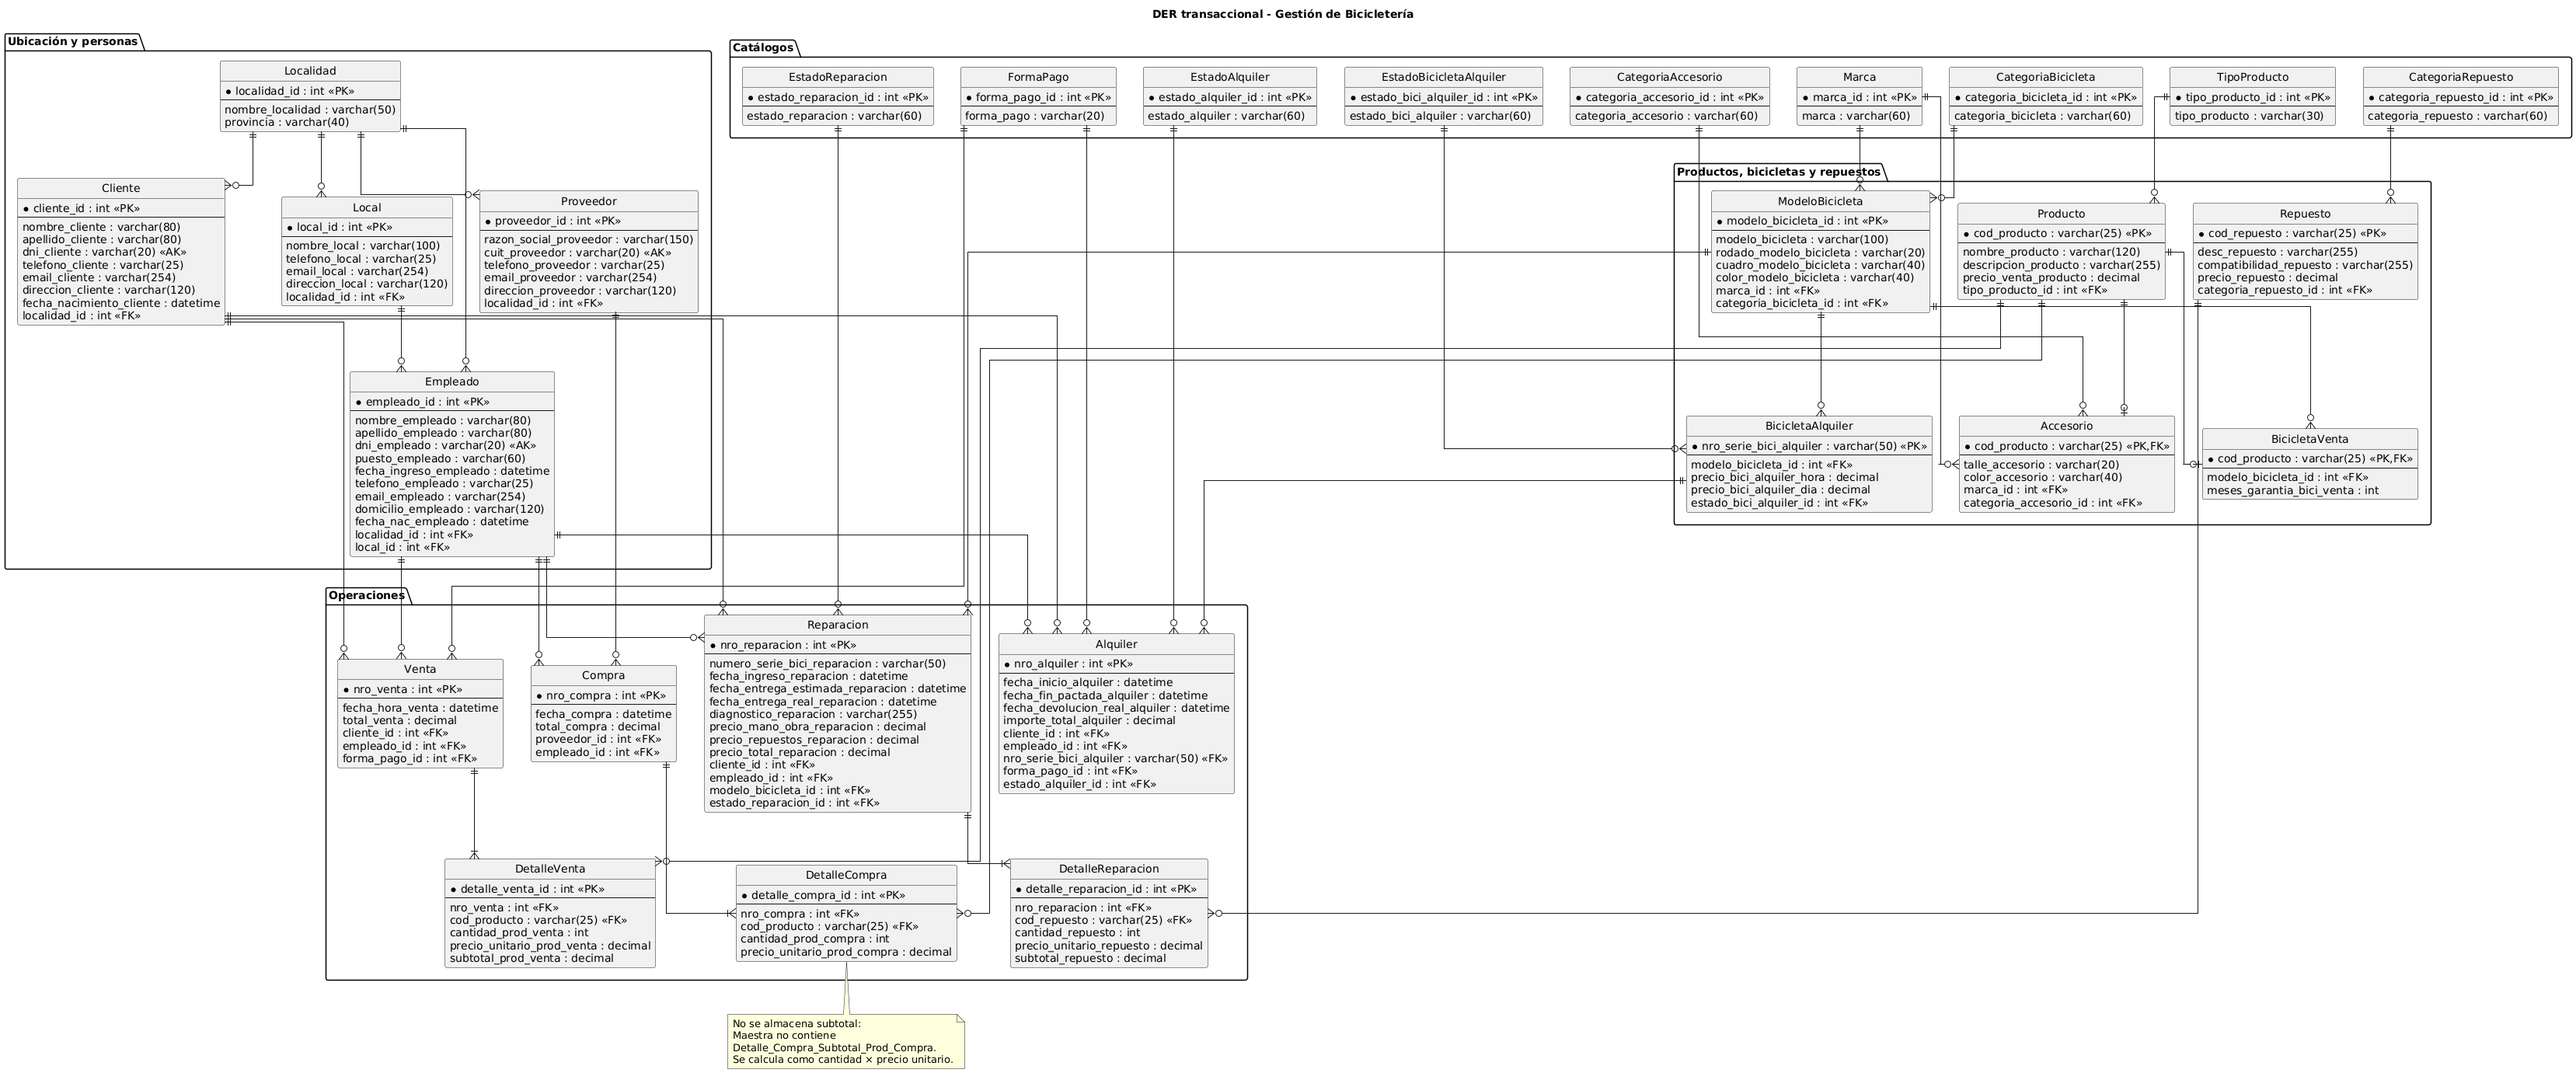
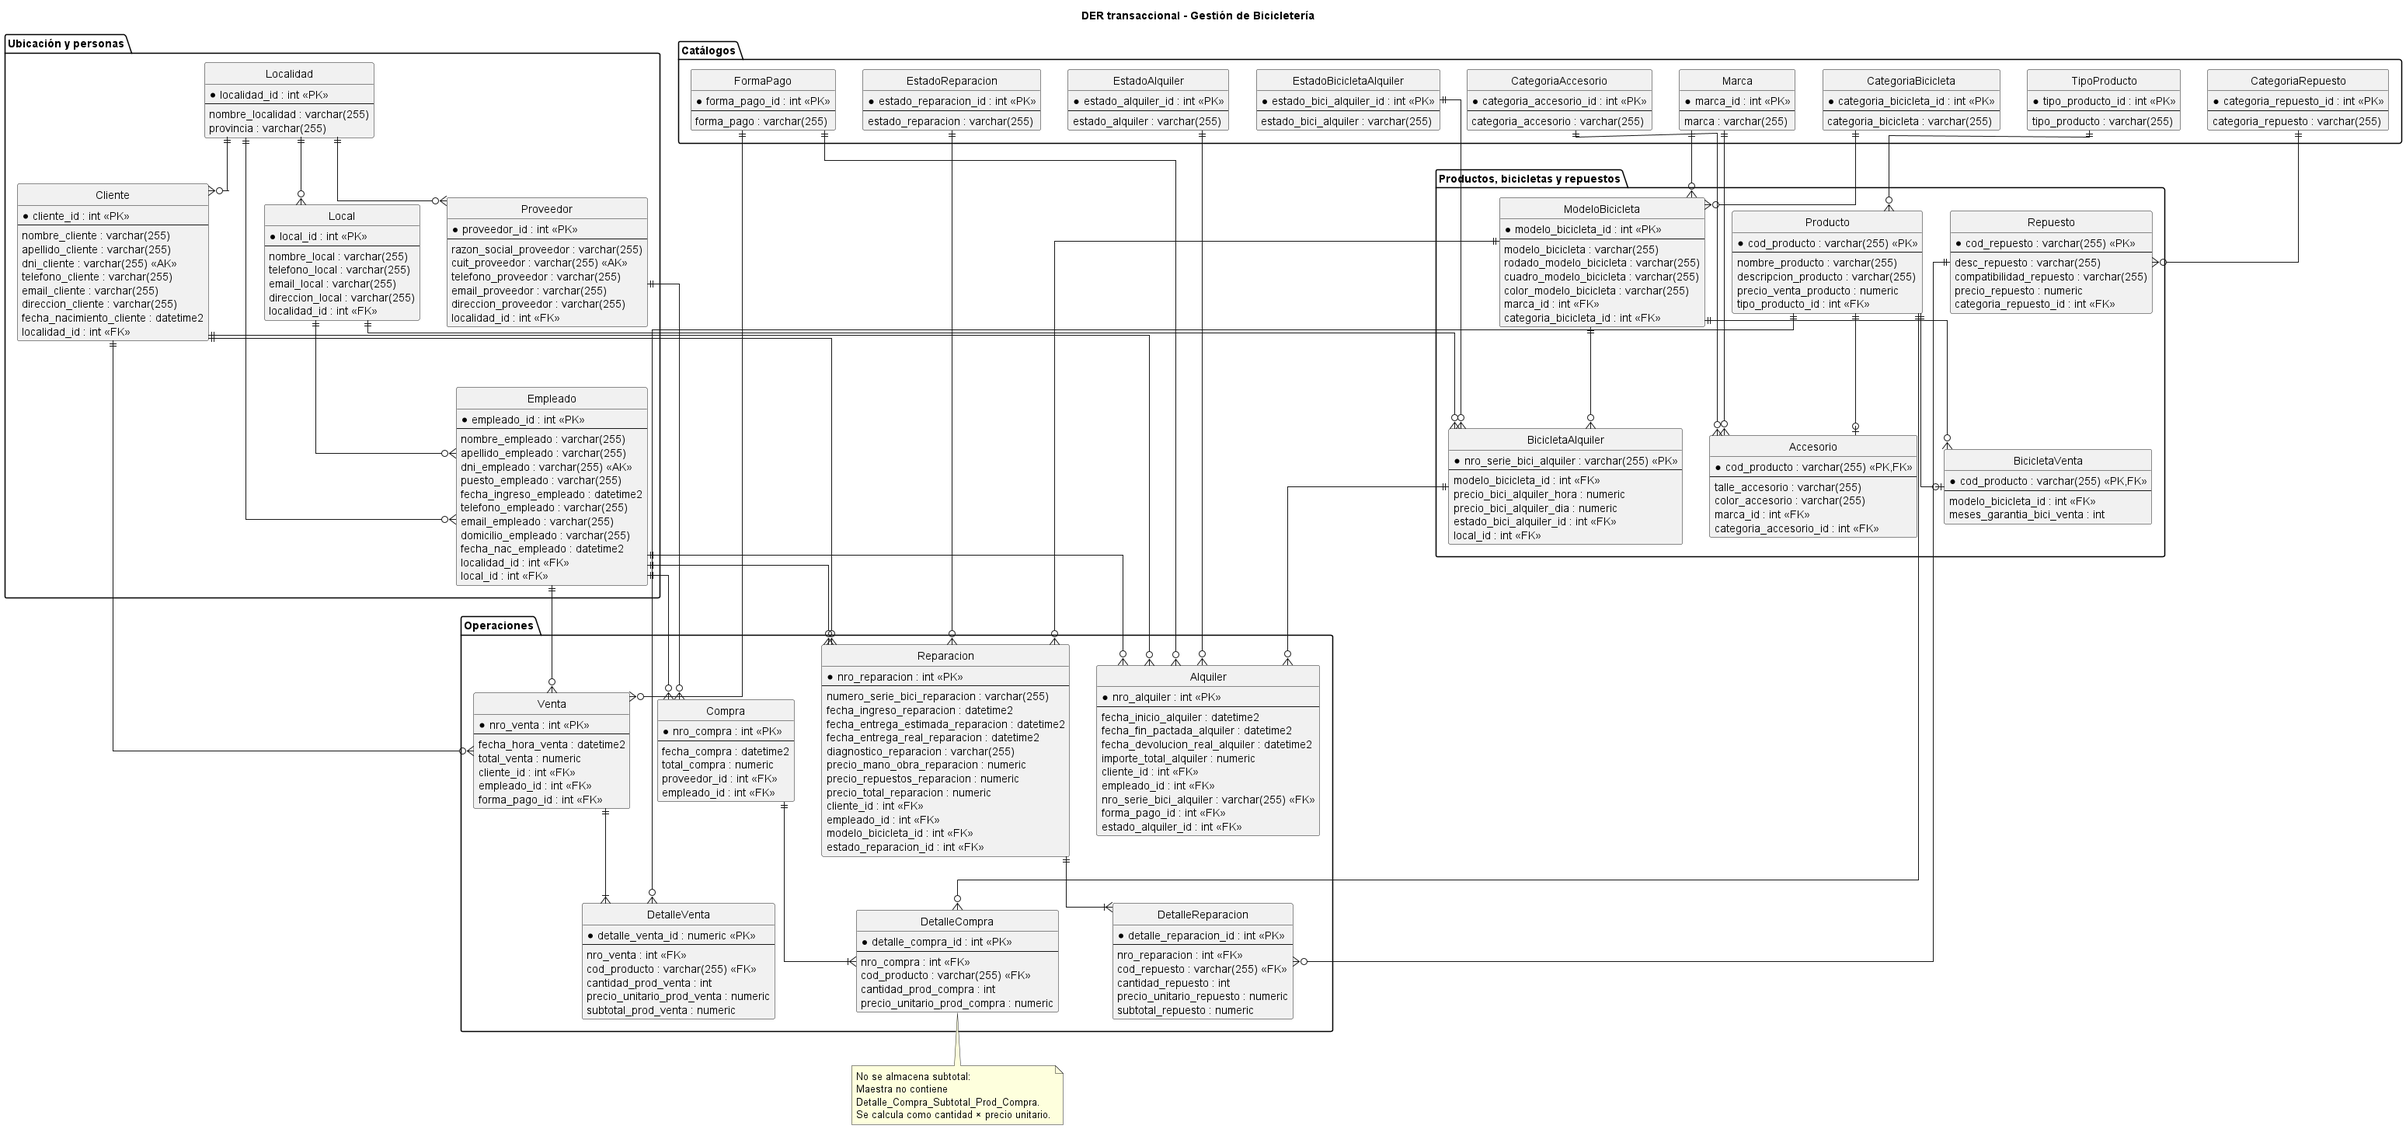
Correciones de la primera entrega

diff --git a/Entrega_1/README.md b/Entrega_1/README.md
@@ -20,7 +20,7 @@ A continuación se justifican los principales criterios de organización y relac
 
 - **DetalleVenta:** resuelve la relación muchos a muchos entre una venta y los productos vendidos: una venta puede incluir varios productos, y un producto puede aparecer en distintas ventas. La entidad también registra la cantidad y el precio unitario correspondiente a cada renglón.
 - **DetalleCompra:** separa los productos comprados de los datos generales de la compra. Permite registrar varios productos por compra y conservar para cada renglón su cantidad y precio unitario de compra.
-- **Bicicleta de alquiler:** se representa cada bicicleta disponible para alquilar mediante su número de serie. Se mantiene separada del catálogo de bicicletas para la venta porque el alquiler registra unidades físicas, con estado y tarifas por hora y por día.
+- **Bicicleta de alquiler:** se representa cada bicicleta disponible para alquilar mediante su número de serie y se vincula con el local propietario de la flota. Se mantiene separada del catálogo de bicicletas para la venta porque el alquiler registra unidades físicas, con estado y tarifas por hora y por día.
 - **Repuesto:** representa un tipo de repuesto, no una unidad física particular. Por eso, el mismo repuesto puede utilizarse en distintas reparaciones. La relación muchos a muchos entre `Reparacion` y `Repuesto` se resuelve mediante `DetalleReparacion`, donde se registran la cantidad y el precio unitario del repuesto utilizado.
 - **Estados:** los estados de reparaciones, alquileres y bicicletas de alquiler se modelan en catálogos separados. Cada proceso conserva así sus propios valores de estado y puede referenciarlos mediante una clave foránea.
 
